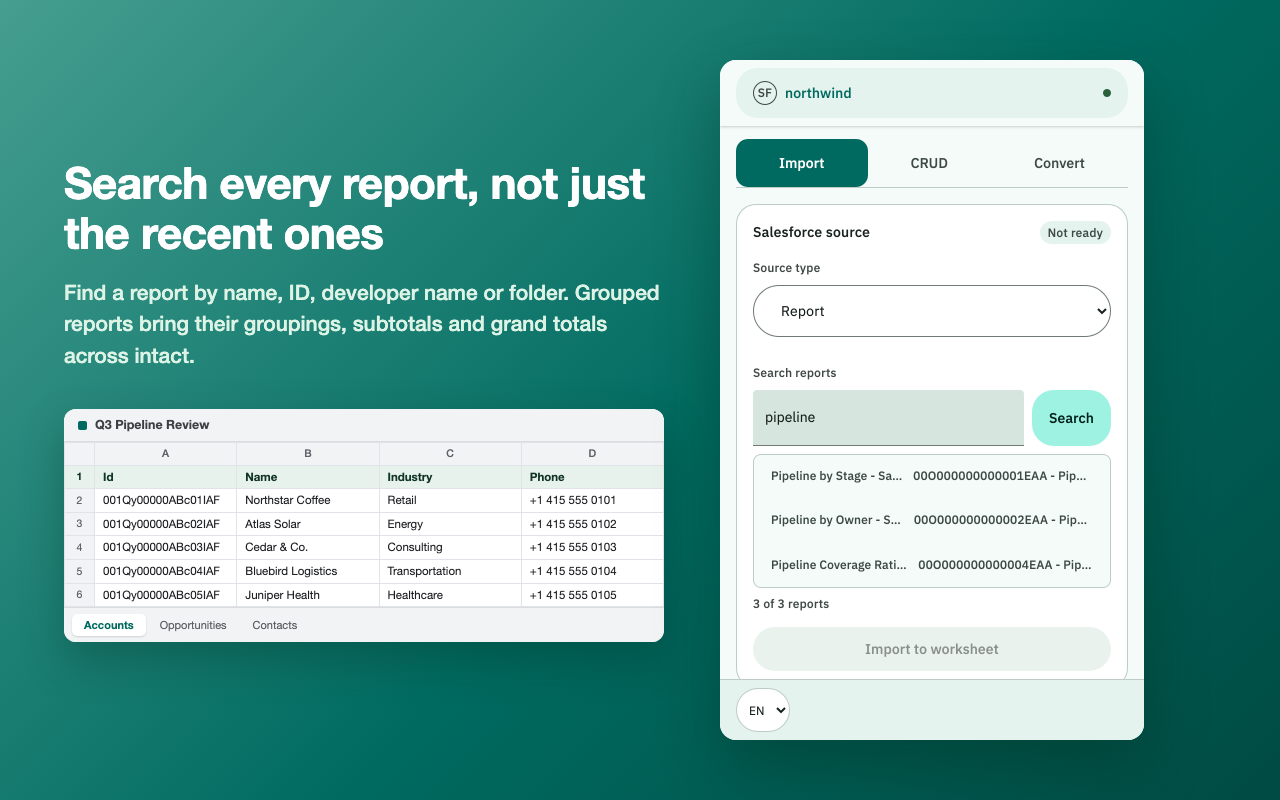
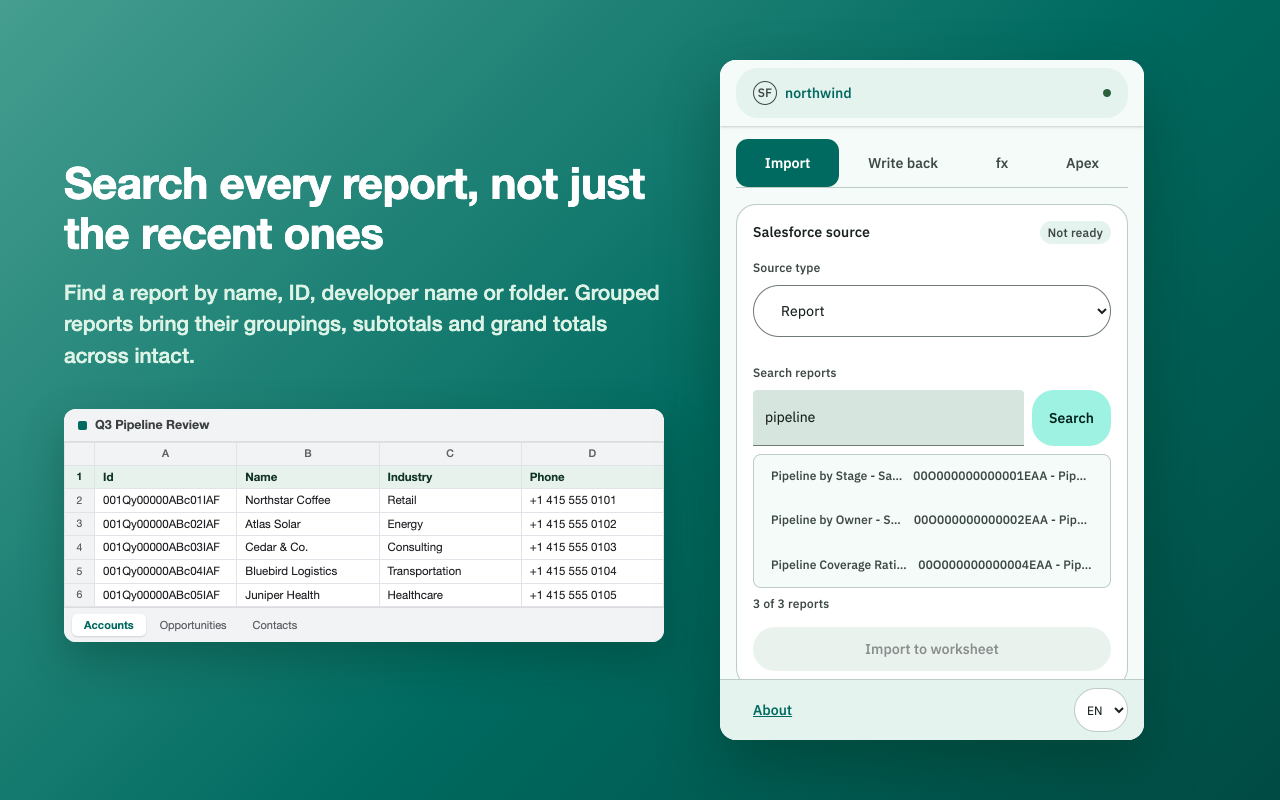
SheetConnect: the product page shows the ten current screenshots
The gallery held five frames captured against a build from before Apex and fx
existed, including one advertising "Convert values in place" — behaviour the
product no longer has, since fx writes beside the input column rather than over
it. That file is gone; the ten current frames replace them, each with its own
caption and alt text.

The hero keeps frame 02, which regenerated with the rest.

Every frame is the shipping sidepanel.html driven through its own code paths;
only chrome.runtime and the message replies are synthetic, and the records are
invented.

diff --git a/apps/sheetconnect-for-salesforce/index.html b/apps/sheetconnect-for-salesforce/index.html
@@ -68,11 +68,16 @@
       <section aria-labelledby="screenshots-title">
         <h2 id="screenshots-title">See SheetConnect in action</h2>
         <div class="gallery">
-          <figure class="wide"><img src="img/01-choose-salesforce-org.png" width="1280" height="800" decoding="async" alt="The SheetConnect panel shown side by side in English and Japanese, each listing a production org and a sandbox found from existing browser sessions"><figcaption>The panel opens on the Salesforce sessions the browser already holds — production and sandbox labelled separately, in English or Japanese.</figcaption></figure>
+          <figure class="wide"><img src="img/01-choose-salesforce-org.png" width="1280" height="800" decoding="async" alt="The SheetConnect panel shown side by side in English and Japanese, each listing a production org and a sandbox found from existing browser sessions"><figcaption>The panel opens on the Salesforce sessions the browser already holds &mdash; production and sandbox labelled separately, in English or Japanese.</figcaption></figure>
           <figure><img src="img/02-import-object-or-list-view.png" width="1280" height="800" decoding="async" alt="Object, list view, and SOQL import controls in the SheetConnect panel"><figcaption>Import an object with a list view, or write the SOQL yourself.</figcaption></figure>
           <figure><img src="img/03-search-and-import-reports.png" width="1280" height="800" decoding="async" alt="Report search results in the SheetConnect panel with folder and developer name"><figcaption>Reports are searchable by ID, name, developer name, or folder.</figcaption></figure>
           <figure><img src="img/04-validate-before-writing-back.png" width="1280" height="800" decoding="async" alt="Header-to-field mapping and a record, error, and request count in the Salesforce CRUD tab"><figcaption>Validation resolves every header to a field and reports the counts before the run.</figcaption></figure>
-          <figure><img src="img/05-convert-values-in-place.png" width="1280" height="800" decoding="async" alt="The Convert values tab previewing a column of account names being replaced with record IDs"><figcaption>Convert previews every cell first, and reports blanks, missing matches, and ambiguous lookups instead of guessing.</figcaption></figure>
+          <figure><img src="img/05-look-up-salesforce-from-a-formula.png" width="1280" height="800" decoding="async" alt="The fx tab running VLOOKUP against Account, with the formula, the input range and the output cell filled in"><figcaption>fx looks a column up in Salesforce and writes what it finds beside it. The column you typed is left alone.</figcaption></figure>
+          <figure><img src="img/06-bring-back-several-fields.png" width="1280" height="800" decoding="async" alt="The fx tab with three return fields listed as chips, each labelled with the column it will be written to"><figcaption>Name as many fields as you need; each comes back in its own column, and each chip says which column that is.</figcaption></figure>
+          <figure><img src="img/07-roll-up-child-records.png" width="1280" height="800" decoding="async" alt="The fx tab running ROLLUP over Opportunity and Case, the Opportunity column filtered to closed-won"><figcaption>ROLLUP counts and totals child records &mdash; one aggregate query per column, with a condition where you want one.</figcaption></figure>
+          <figure><img src="img/08-write-your-own-apex.png" width="1280" height="800" decoding="async" alt="The Apex tab with a template loaded in the editor and the input and output range controls above it"><figcaption>When the other three are not enough, run your own Apex over the range.</figcaption></figure>
+          <figure><img src="img/09-start-from-a-template.png" width="1280" height="800" decoding="async" alt="The Apex template picker listing templates grouped by what they do"><figcaption>Twenty-seven templates to start from, each compiled against a real org before it ships.</figcaption></figure>
+          <figure><img src="img/10-nothing-is-written-until-you-say-so.png" width="1280" height="800" decoding="async" alt="A confirmation dialog naming the object, the worksheet, the operation and the record count before a run"><figcaption>Import, write back and fx each state what they will write and where, and wait.</figcaption></figure>
         </div>
         <p class="notice">Every frame is the shipping side panel driven through its own code paths. The records are invented; no live Salesforce org, Google account, or customer data appears in them.</p>
       </section>
